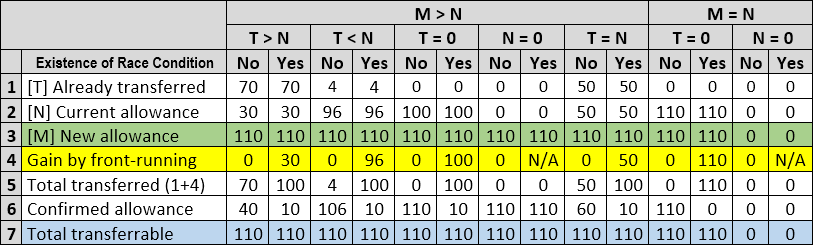
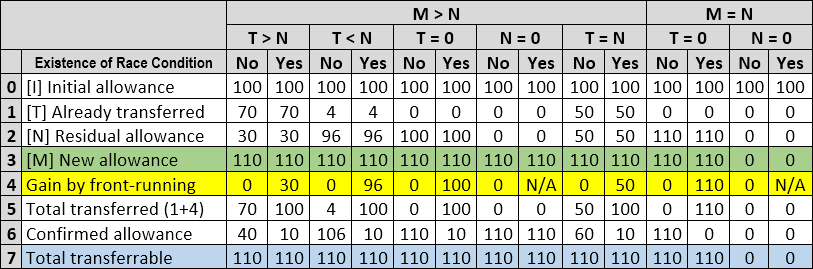
Update

diff --git a/css/custom.css b/css/custom.css
@@ -1,3 +1,7 @@
 .underline {
     text-decoration: underline;
   }
+
+ .red {
+    color:red;
+}

diff --git a/conf.py b/conf.py
@@ -46,5 +46,3 @@ html_logo = 'images/logo.png'
 html_show_copyright = False
 html_show_sphinx = False
 todo_include_todos = True
-def setup(app):
-    app.add_stylesheet('css/custom.css')

diff --git a/multiple_withdrawal.rst b/multiple_withdrawal.rst
@@ -301,7 +301,7 @@ Similarly, a block of code will be added to approve function to compare new allo
 Added code to ``Approve`` function will compare new allowance (``_tokens``) with current allowance of the spender (``allowed[msg.sender][_spender]``) and with already transferred token (``transferred[msg.sender][_spender]``). Then it decides to increase or decrease current allowance. If new allowance is less than initial allowance (sum of allowance and transferred), it denotes decreasing allowance, otherwise increasing allowance was intended. For example, we consider two below scenarios:
 
 | 
-| *1.	Alice approves Bob for spending 100 tokens and then decides to decrease it to 10 tokens.*
+| **1. Alice approves Bob for spending 100 tokens and then decides to decrease it to 10 tokens.**
 | 1.1.	Alice approves Bob for transferring 100 tokens.
 | 1.2.	After a while, Alice decides to reduce Bob’s allowance from 100 to 10 tokens.
 | 1.3.	Bob noticed Alice’s new transaction and transfers 100 tokens by front-running.
@@ -311,18 +311,18 @@ Added code to ``Approve`` function will compare new allowance (``_tokens``) with
 | 1.7.	Since Bob already transferred more tokens, his allowance will set to 0.
 | 1.8.	Bob is not able to move more than initial approved tokens.
 | 
-| *2. Alice approves Bob for spending 100 tokens and then decides to increase to 120 tokens.*
+| **2. Alice approves Bob for spending 100 tokens and then decides to increase it to 120 tokens.**
 | 2.1.	Alice approves Bob for transferring 100 tokens.
 | 2.2.	After a while, Alice decides to increase Bob’s allowance from 100 to 120 tokens.
 | 2.3.	Bob noticed Alice’s new transaction and transfers 100 tokens by front-running.
-| 2.4.	Bob’s allowance is 0 and transferred is 100.
+| 2.4.	Bob’s allowance is 0 and ``transferred`` is 100.
 | 2.5.	Alice’s transaction is mined and checks initial allowance (100) with new allowance (120).
 | 2.6.	As it is increasing, new allowance (120) will be subtracted from transferred tokens (100).
 | 2.7.	20 tokens will be added to Bob’s allowance.
 | 2.8.	Bob would be able to transfer more 20 tokens (120 in total as Alice wanted).
 |
 
-We can consider the below flowchart demonstrating how does Approve function works. By using this flowchart, all possible outputs could be generated based on tweaked inputs:
+We can consider the below flowchart demonstrating logic of ``approve`` function. By using this flowchart, all possible outputs could be generated based on tweaked inputs:
 
 .. figure:: images/multiple_withdrawal_16.png
     :scale: 90%
@@ -330,7 +330,7 @@ We can consider the below flowchart demonstrating how does Approve function work
     
     *Figure 20: Flowchart of added code to Approve function*
 
-In order to evaluate functionality of the new ``approve/transferFrom`` functions, we have implemented a standard ERC20 token along side our proposed ERC20 token:
+In order to evaluate functionality of the new ``approve/transferFrom`` functions, we have implemented a standard ERC20 token (TKNv1) along side proposed ERC20 token (TKNv2):
 
 https://rinkeby.etherscan.io/address/0x8825bac68a3f6939c296a40fc8078d18c2f66ac7
 
@@ -348,38 +348,38 @@ https://rinkeby.etherscan.io/address/0xf2b34125223ee54dff48f71567d4b2a4a0c9858b
     
     *Figure 22: Proposed ERC20 implementation on Rinkby test network*
     
-We have named these tokens as TKNv1 and TKNv2 representing standard and proposed ERC20 tokens. Code of each token has been added to the corresponding smart contract and verified by Etherscan. In order to make sure that this new implementation solves multiple withdrawal attack, several scenarios needs to be tested against it. We tested TKNv2 token with different inputs in two situations:
+Code of each token has been added to the corresponding smart contract and verified by Etherscan. In order to make sure that this new implementation solves multiple withdrawal attack, several scenarios need to be tested against it. We tested TKNv2 token with different inputs in two situations:
 
 * Without considering race condition.
-* By considering race condition (Highlighted in Yellow in the following tables)
+* By considering race condition (Highlighted in Yellow in the each tables)
 
-It would be possible to get different results by tweaking three input parameters:
+By tweaking three input parameters (T, N and M), all possible results would be generated:
 
 #. Number of already transferred tokens (T)
 #. Current amount of allowed tokens to transfer (N)
 #. New allowance for transferring tokens (M)
 
-By changing these parameters, we would be able to evaluate all possible results based on different inputs. These results have been summarized in Tables 3, 4, 5. For example, Table2 shows result of all possible input values if approver wants to reduce previously allowed transfers. Table 3 evaluates the same result for increasing and even passing the same allowance as before. the last table checks input values in boundaries (New allowance = 0 OR New allowance = Current allowance + Transferred tokens).
+We evaluated all possible results based by changing these input parameters. Corresponding results have been summarized in Tables 3, 4, 5. For example, Table 2 shows result of all possible input values if approver wants to reduce allowance. Table 3 evaluates the same result for increasing and even passing the same allowance as before. the last table checks input values in boundaries (New allowance = 0 OR New allowance = Current allowance + Transferred tokens).
 
 .. figure:: images/multiple_withdrawal_19.png
     :scale: 100%
     :figclass: align-center
     
-    *Table 3: Test results in case on new allowance (M) < current allowance (N)*
+    *Table 3: Test results if new allowance (M) < residual allowance (N)*
 
 .. figure:: images/multiple_withdrawal_20.png
     :scale: 100%
     :figclass: align-center
     
-    *Table 4: Test results in case on new allowance (M) > current allowance (N) OR new allowance (M) = current allowance (N)*
+    *Table 4: Test results if new allowance (M) > residual allowance (N) OR new allowance (M) = residual allowance (N)*
 
 .. figure:: images/multiple_withdrawal_21.png
     :scale: 100%
     :figclass: align-center
     
-    *Table 5: Test results in case on new allowance (M) = 0 OR new allowance (M) = Transferred tokens (T) + current allowance (N)*
+    *Table 5: Test results if new allowance (M) = 0 OR new allowance (M) = Transferred tokens (T) + current allowance (N)*
 
-In Table 2, the goal is to prevent spender from transferring more tokens than already transferred. Because approver is reducing allowance, so the result (Total transferable = S) MUST be always in range of M≤ S≤T+N. As we can see this equation is true for all results of Table1 which is showing this attack is not possible in case of reducing allowance. In Table 4 and Table 5, total transferable tokens MUST be always less than new allowance (S≤M) no matter how many tokens have been already transferred. Result of tests for different input values shows that *TKNv2* can address multiple withdrawal attack by making front-running gain ineffective. Moreover, we compared these two tokens in term of Gas consumption. TokenV2.approve uses almost the same Gas as ``TokenV1.approve``, however, gas consumption of ``TokenV2.transferFrom`` is around 50% more than ``TokenV1.transferFrom``. This difference is because of maintaining a new mapping variable for tracking transferred tokens:
+In Table 3, the goal is to prevent spender from transferring more tokens than already transferred. Because approver is reducing allowance, so the result (Total transferable = S) MUST be always in range of M ≤ S ≤ T+N. As we can see this equation is true for all results which is showing this attack is not possible in case of reducing allowance. In Table 4 and Table 5, total transferable tokens MUST be always less than new allowance (S ≤ M) no matter how many tokens have been already transferred. Result of tests for different input values shows that *TKNv2* can address multiple withdrawal attack by making front-running gain ineffective. Moreover, we compared these two tokens in term of Gas consumption. ``TokenV2.approve`` uses almost the same amount of Gas as ``TokenV1.approve``, however, gas consumption of ``TokenV2.transferFrom`` is around 50% more than ``TokenV1.transferFrom``. This difference is because of maintaining a new mapping variable for tracking transferred tokens:
 
 .. figure:: images/multiple_withdrawal_22.png
     :scale: 100%
@@ -387,7 +387,7 @@ In Table 2, the goal is to prevent spender from transferring more tokens than al
     
     *Table 6: comparison of Gas consumption between TKNv1 and TKNv2*
 
-Additionally, Transferring and receiving tokens trigger expected events (Visible under Etherscan): 
+Additionally, Transferring and receiving tokens trigger expected events (visible under Etherscan): 
 
 .. figure:: images/multiple_withdrawal_23.png
     :scale: 100%
@@ -395,23 +395,23 @@ Additionally, Transferring and receiving tokens trigger expected events (Visible
     
     *Figure 23: Logged event by TKNv2 after calling Approve or transferFrom*
 
-In term of compatibly, working with current wallets (Like MetaMask) shows no transfer issue:
+In term of compatibly, working with MetaMask wallets have not raised any transfer issue. This shows compatibility of the token with existing wallets:
 
 .. figure:: images/multiple_withdrawal_24.png
     :scale: 70%
     :figclass: align-center
     
-    *Figure 24: Compatibility of the token with current wallets*
+    *Figure 24: Compatibility of the token with existing wallets*
 
 Proposal 2
 **********
-Proposal 1 mitigates the attack in all situations, however it adjusts allowance based on transferred tokens. For example, if Alice allowed Bob for transferring 100 tokens and she deccides to increase it to 120 tokens, the allowance will not directly set to 120 and the code adjusts it as below:
+Proposal 1 mitigates the attack in all situations, however it adjusts allowance based on transferred tokens. For example, if Alice allowed Bob for transferring 100 tokens and she decides to increase it to 120 tokens, the allowance will not directly set to 120 and the code adjusts it as below:
 
 #. If Bob already transferred 100 tokens, the new allowance will be 20 (100+20 = 120).
 #. If Bob already transferred 70 tokens, the new allowance will be 50 (70+50 = 120).
 #. If Bob has not already transferred any tokens, the new allowance will be 120 (0+120=120).
 
-Although the final result will be the same and does not allow Bob to transfer more than intended tokens, But ERC20 standard approve mehtod emphasizes that:
+Although the final result will be the same and does not allow Bob to transfer more than intended tokens, But ERC20 standard approve method emphasizes that:
 
 .. figure:: images/multiple_withdrawal_28.png
     :scale: 85%
@@ -419,7 +419,14 @@ Although the final result will be the same and does not allow Bob to transfer mo
     
     *Figure 25: ERC20 approve method constraint*
 
-Hence, adjusting allowance will violate this constraint of ERC20 standard. Since this was our last solution for improving ``approve`` method, we would assume API change as final suggestion for makeing ``approve`` method safer. It seems that there is no implementation to satisfy the standard constraints and mitigating against the attack under one solution. Hence, security of ``transferFrom`` method could be improved as an alternative solution. ERC20 standard emphasizes that:
+Hence, adjusting allowance will violate this constraint. On the other hand, this was the only solution for improving ``approve`` method. Because setting allowance securely to new values would need knowledge of transferred tokens. We can get this knowledge by:
+
+#. Tracking what have been transferred and ADJUST allowance accordingly.
+#. Passing a new input parameter that is showing what was the allowance before.
+
+We implemented the first approach and the second one would need to modify definition of ``approve`` method. It seems that there is no feasible implementation to satisfy constraints of ERC20 and mitigating the attack under one solution. Therefore, we would assume API change as final solution of securing ``approve`` method.
+ 
+As an alternative solution, we can think of securing ``transferFrom`` method instead of ``approve`` method. ERC20 standard emphasizes that:
 
 .. figure:: images/multiple_withdrawal_30.png
     :scale: 85%
@@ -430,12 +437,12 @@ Hence, adjusting allowance will violate this constraint of ERC20 standard. Since
 So, the goal is to prevent spender from transferring more tokens than allowed by the approve. Based on this impression, we should not consider allowance as the main factor. Transferred tokens should be considered as the main variable in calculations. For example:
 
 #. Alice allowed Bob for transferring 100 tokens and decides to set it to 70 after a while.
-#. Bob front runs Alice's transaction and transfers 100 tokes (Legit transfer)
+#. Bob front runs Alice's transaction and transfers 100 tokes (legitimate transfer).
 #. Alice's transaction is mined and sets Bob allowance to 80.
-#. Bob got new allowance and runs ``transferFrom(_BobAddr,80)``. Since he already transfered more than 80, his trasanction will fail and prevent multiple withdrawal.
-#. Bob'a allowance stays as 80, however, he can not use it.
+#. Bob got new allowance and runs ``transferFrom(_BobAddr,80)``. Since he already transferred more than 80, his transaction will fail and prevent multiple withdrawal.
+#. Bob's allowance stays as 80, however, he can not use it.
 
-So, here allowance can be considered as **possible allowance** or **potential allowance**. It indicates that Bob is elligible to transfer up to allowance limit if he has not already transferred anytokens. So, by this assumption, we can secure ``transferFrom`` method instead of ``approve`` method:
+Here allowance can be considered as **possible allowance** or **potential allowance**. It indicates that Bob is eligible to transfer up to allowance limit if he has not already transferred any tokens. ``transferred`` is life time variable that accumulates transferred tokens regardless of allowance change. So, by this assumption, we can secure ``transferFrom`` method instead of ``approve`` method as below:
 
 .. figure:: images/multiple_withdrawal_31.png
     :scale: 100%
@@ -454,7 +461,7 @@ https://rinkeby.etherscan.io/address/0x55b9871e66976cb4263c13a9c9e250e31a880b8f
 
 Conclusion
 **********
-Based on ERC20 specifications, token owners should be aware of their approval consequences. If they approve someone to transfer N tokens, spender can transfer exactly N tokens, even if they change allowance to zero afterward. This is considered a legitimate transaction and responsibility of approver before allowing the spender to transfer tokens. An attack can happen when changing allowance from N to M, that allows spender to transfer N+M tokens and effect multiple withdrawal attack. This attack is possible in case of front-running by approved side. As we evaluated possible solutions, all approaches violate ERC20 specifications or have not addressed the attack completely. Proposal 1 uses CAS pattern for checking and setting new allowance atomically. In proposal 2, transfer function is secured instead of approve method. We implemented an ERC20 token for each proposal that solve this security issue while keeping backward compatibly with already deployed smart contracts or wallets. Although these implementations consumes more Gas than standard ERC20 implementation, they are secure and could be considered for future ERC20 token deployment.
+Based on ERC20 specifications, token owners should be aware of their approval consequences. If they approve someone to transfer N tokens, the spender can transfer exactly N tokens, even if they change allowance to zero afterward. This is considered a legitimate transaction and responsibility of approver before allowing the spender for transferring any tokens. An attack can happen when changing allowance from N to M, that allows spender to transfer N+M tokens and effect multiple withdrawal attack. This attack is possible in case of front-running by approved side. As we evaluated possible solutions, all approaches violate ERC20 specifications or have not addressed the attack completely. Proposal 1 uses CAS pattern for checking and setting new allowance atomically. In proposal 2, ``transferFrom`` function is secured instead of ``approve`` method. We implemented an ERC20 token for each proposal that solve this security issue while keeping backward compatibly with already deployed smart contracts or wallets. Although these implementations consume more Gas than standard ERC20 implementations, they are secure and could be considered for future ERC20 token deployment.
 
 |
 |

diff --git a/index.rst b/index.rst
@@ -1,8 +1,3 @@
-.. # define a hard line break for HTML
-.. |newline| raw:: html
-
-   <br />
-   
 .. _index:
 
 ##############
